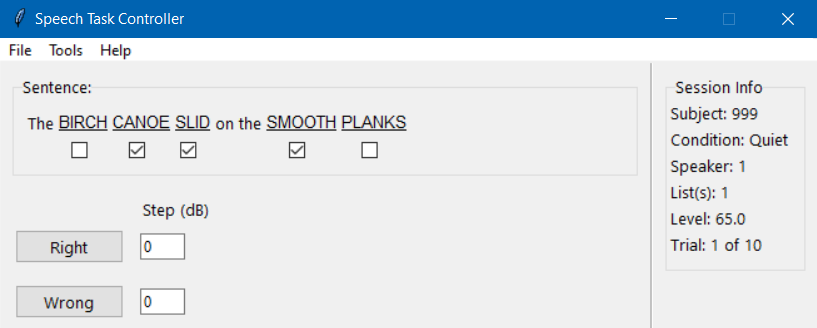
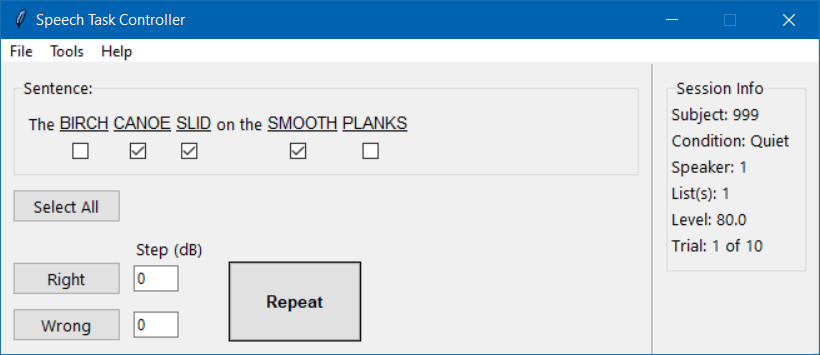
V2.1.2. Added repeat button. Added select all button to select all checkboxes.

diff --git a/assets/README/README.html b/assets/README/README.html
@@ -2,8 +2,8 @@
 <p>Graphical user interface (GUI) for presenting and scoring speech tasks.</p>
 <ul>
 <li>Written by: <strong>Travis M. Moore</strong></li>
-<li>Latest version: <strong>Version 2.1.1</strong></li>
-<li>Last edited: <strong>December 02, 2022</strong>
+<li>Latest version: <strong>Version 2.1.2</strong></li>
+<li>Last edited: <strong>December 07, 2022</strong>
 <br>
 <br></li>
 </ul>
@@ -151,6 +151,8 @@ Note: Step sizes are in decibels.</p>
 <hr />
 <h2>Scoring</h2>
 <p>Sentences will be presented one-by-one from the list(s) entered in the Session window. The sentence text will be displayed in the "Sentence" section of the main screen. Check boxes will appear beneath each key word in the sentence. Click the check box if the participant correctly identified the word, otherwise leave the checkbox blank.</p>
+<p>As a convenience, you can click the SELECT ALL button to select every checkbox automatically. </p>
+<p>If you need to repeat the audio presentation of the current sentence, you can click the REPEAT button to present the audio again, without scoring or increasing the trial number. </p>
 <!-- <img src="./assets/images/scoring.png" alt="Scoring image" width="600"/> -->
 <p><img src="scoring.png" alt="Scoring image" width="600"/></p>
 <p>After selecting the appropriate check boxes, click either the RIGHT or WRONG button. You are free to click whichever button you wish without defining any special scoring criteria. A running count of each time the RIGHT and WRONG buttons is pressed is kept and recorded for scoring. This record is displayed as the percent correct in a message box once the task has finished, labeled as <strong>Percent Correct (Custom)</strong>.</p>
@@ -183,7 +185,7 @@ Note: Step sizes are in decibels.</p>
 <br></li>
 </ul>
 <hr />
-<h2>Rebuilding from Source</h2>
+<h2>Compiling from Source</h2>
 <p><code>pyinstaller --noconfirm --onefile --windowed --add-data "C:/Users/MooTra/Code/Python/speech_task_gui/assets/cal_stim.wav;." --add-data "C:/Users/MooTra/Code/Python/speech_task_gui/assets/README;README/"  "C:/Users/MooTra/Code/Python/speech_task_gui/controller.py"</code>
 <br>
 <br></p>

diff --git a/views/main.py b/views/main.py
@@ -46,6 +46,11 @@ class MainFrame(ttk.Frame):
             foreground='green',
             background='black')
 
+        style.configure('Repeat.TButton', 
+            font=('TkDefaultFont', 10, 'bold'), 
+            foreground='black',
+            background='black')
+
 
         #################
         # Create frames #
@@ -112,6 +117,17 @@ class MainFrame(ttk.Frame):
         self.btn_start.grid(column=7, row=15, rowspan=6, 
             sticky='nsew', pady=(0,10))
 
+        # "Repeat" button
+        self.btn_repeat = ttk.Button(frm_main, text='Repeat',
+            command=self._on_repeat, style='Repeat.TButton',
+            takefocus=0)
+        # NOTE: Only place widget when START is clicked
+
+        # "Select All" button
+        self.btn_select_all = ttk.Button(frm_main, text="Select All", 
+            state='disabled', command=self._on_select_all, takefocus=0)
+        self.btn_select_all.grid(column=5, row=8, pady=(0,10))
+
         # "Right" button
         self.btn_right = ttk.Button(frm_main, text='Right', state='disabled', 
             command=self._on_right)
@@ -125,13 +141,15 @@ class MainFrame(ttk.Frame):
         # "Right" step size entry
         #self.right_var = tk.DoubleVar()
         self.right_var = tk.StringVar()
-        ent_right = ttk.Entry(frm_main, textvariable=self.right_var, width=5)
+        ent_right = ttk.Entry(frm_main, textvariable=self.right_var, 
+            width=5, takefocus=0)
         ent_right.grid(column=6, row=15, sticky='w', pady=(0,10))
 
         # "Wrong" step size entry
         #self.wrong_var = tk.DoubleVar()
         self.wrong_var = tk.StringVar()
-        ent_wrong = ttk.Entry(frm_main, textvariable=self.wrong_var, width=5)
+        ent_wrong = ttk.Entry(frm_main, textvariable=self.wrong_var, 
+            width=5, takefocus=0)
         ent_wrong.grid(column=6, row=20, sticky='w', pady=(0,10))
 
         # Level step size label
@@ -232,8 +250,12 @@ class MainFrame(ttk.Frame):
 
         # Clean up buttons
         self.btn_start.grid_remove()
+        self.btn_select_all.config(state='enabled')
         self.btn_right.config(state='enabled')
         self.btn_wrong.config(state='enabled')
+        # Show REPEAT button
+        self.btn_repeat.grid(column=7, row=15, rowspan=6, 
+        sticky='nsew', pady=(0,10))
 
         # Reset trial counter to 0
         self.counter = 0
@@ -251,6 +273,25 @@ class MainFrame(ttk.Frame):
 
         # Display first sentence and present first audio file
         self._display()
+        self._play()
+
+
+    def _on_select_all(self):
+        """ Select all checkboxes convenience function
+        """
+        print("Views_Main_281: Selected all checkboxes")
+
+        for ii in self.keyword_chks:
+            self.chk_vars[ii].set(1)
+        #for val in self.chk_vars:
+        #    val.set(1)
+
+
+    def _on_repeat(self):
+        """ Repeat the current sentence without scoring or 
+            advancing the sentence counter
+        """
+        print("Views_Main_276: Repeat current sentence")
         self._play()
 
 
@@ -412,6 +453,9 @@ class MainFrame(ttk.Frame):
             each key word (capitalized). Underline each 
             key word.
         """
+        # Track indexes of key word checkboxes for 
+        # select all
+        self.keyword_chks = []
         try:
             # Get next sentence and split into a list of words
             self.words = self.sentence_df.loc[
@@ -429,6 +473,7 @@ class MainFrame(ttk.Frame):
                         font=('TkDefaultFont 10 underline'))
                     # Checkboxes
                     self.word_chks[idx].grid(column=idx, row=1)
+                    self.keyword_chks.append(idx)
                 else:
                     # Words
                     self.text_vars[idx].set(word)

diff --git a/menus/mainmenu.py b/menus/mainmenu.py
@@ -75,9 +75,9 @@ class MainMenu(tk.Menu):
         about_message = 'Speech Task Controller'
         about_detail = (
             'Written by: Travis M. Moore\n'
-            'Version 2.1.1\n'
+            'Version 2.1.2\n'
             'Created: Jun 23, 2022\n'
-            'Last Edited: Dec 02, 2022'
+            'Last Edited: Dec 07, 2022'
         )
         messagebox.showinfo(
             title='About',

diff --git a/controller.py b/controller.py
@@ -7,8 +7,8 @@
     .csv file. 
 
     Written by: Travis M. Moore
-    Created: 23 Jun, 2022
-    Last edited: 2 Nov, 2022
+    Created: Jun 23, 2022
+    Last edited: Dec 07, 2022
 """
 
 ###########

diff --git a/README.md b/README.md
@@ -3,8 +3,8 @@
 Graphical user interface (GUI) for presenting and scoring speech tasks.
 
 - Written by: **Travis M. Moore**
-- Latest version: **Version 2.1.1**
-- Last edited: **December 02, 2022**
+- Latest version: **Version 2.1.2**
+- Last edited: **December 07, 2022**
 <br>
 <br>
 
@@ -169,6 +169,10 @@ Note: Step sizes are in decibels.
 ## Scoring
 Sentences will be presented one-by-one from the list(s) entered in the Session window. The sentence text will be displayed in the "Sentence" section of the main screen. Check boxes will appear beneath each key word in the sentence. Click the check box if the participant correctly identified the word, otherwise leave the checkbox blank.
 
+As a convenience, you can click the SELECT ALL button to select every checkbox automatically. 
+
+If you need to repeat the audio presentation of the current sentence, you can click the REPEAT button to present the audio again, without scoring or increasing the trial number. 
+
 <!-- <img src="./assets/images/scoring.png" alt="Scoring image" width="600"/> -->
 <img src="scoring.png" alt="Scoring image" width="600"/>
 
@@ -209,7 +213,7 @@ The data .csv file stores the following information on each trial:
 
 ---
 
-## Rebuilding from Source
+## Compiling from Source
 ```
 pyinstaller --noconfirm --onefile --windowed --add-data "C:/Users/MooTra/Code/Python/speech_task_gui/assets/cal_stim.wav;." --add-data "C:/Users/MooTra/Code/Python/speech_task_gui/assets/README;README/"  "C:/Users/MooTra/Code/Python/speech_task_gui/controller.py"
 ```

diff --git a/CHANGELOG.md b/CHANGELOG.md
@@ -2,6 +2,16 @@
 
 ---
 
+## v2.1.2
+
+Date: Dec 07, 2022
+
+### Minor Features
+1. Added "Select All" button as a convenience to select all key word checkboxes automatically.
+2. Added a repeat button that plays the current audio again, without incrementing the audio list or scoring. 
+
+---
+
 ## v2.1.1
 
 Date: Dec 02, 2022
